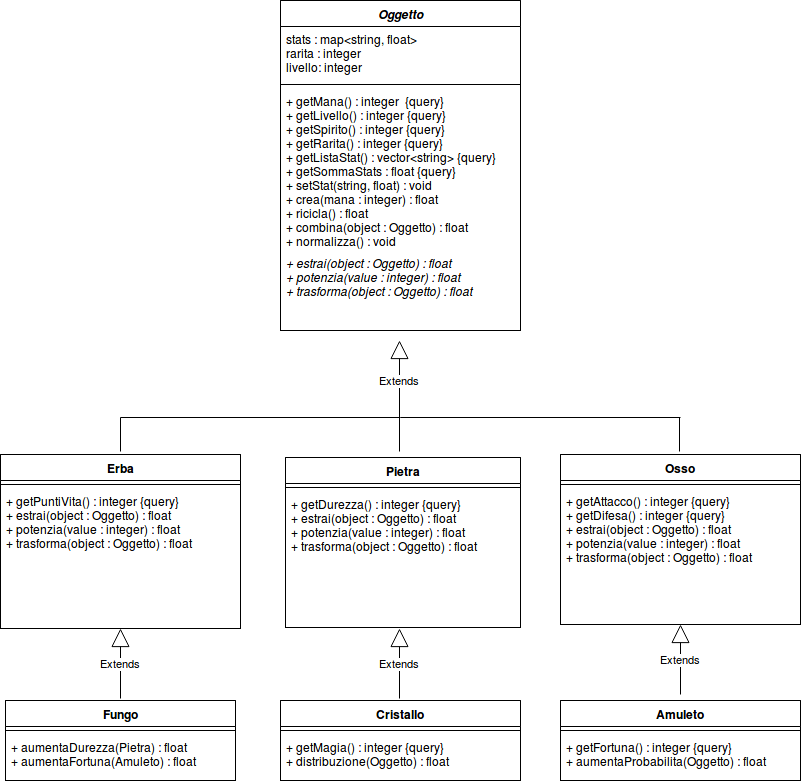
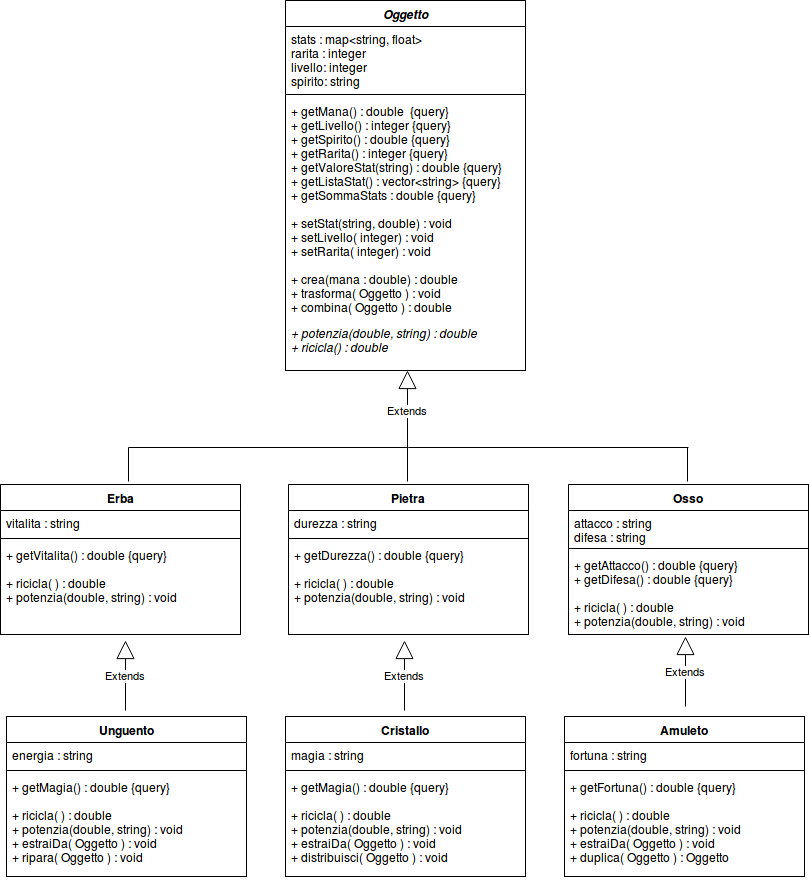
rimossi virtual da estrai, sistemato ordine metodi, sistemata immagine gerarchia

diff --git a/tempIdeas/untitled/oggetto.h b/tempIdeas/untitled/oggetto.h
@@ -41,7 +41,7 @@ public:
     //distruttore virtuale
     virtual ~Oggetto() {}
 
-    virtual Oggetto* clone() const =0;
+
 
 //---------METODI DI SET
     void setLivello(int livello) {
@@ -58,7 +58,7 @@ public:
         stats[stat] += value;
     }
 
-    bool modifyStat(string str, double db) { //GESTIONE DEGLI ERRORI
+    bool modifyStat(string str, double db) {
         bool trovata=false;
         if(stats.count(str)) {
             stats[str] = db;
@@ -100,22 +100,17 @@ public:
     int getLivello() const {
        return livello_;
     }
+
     int getRarita() const {
         return rarita_;
     }
+
     double getValoreStat(string str) const {
         return stats.at(str);
     }
 
     double getSpirito() const {
         return getValoreStat(spirito_);
-    }
-
-    list<string> getListaStats()  const {
-        list<string> keyList;
-        for(map<string, double>::const_iterator it= stats.begin(); it!=stats.end(); ++it)
-            keyList.push_back(it->first);
-        return keyList;
     }
 
     double getSommaStats() const {
@@ -125,13 +120,20 @@ public:
         return sum;
     }
 
+    list<string> getListaStats()  const {
+        list<string> keyList;
+        for(map<string, double>::const_iterator it= stats.begin(); it!=stats.end(); ++it)
+            keyList.push_back(it->first);
+        return keyList;
+    }
+
     double calcolaMana() const {
         return getSommaStats()*getLivello();
     }
 
 
 
-//------------OPERAZIONI
+//------------OPERAZIONI DI CONTROLLO INPUT
     void normalizza() {
         int maxStat = 150;
         if(getLivello()*maxStat*stats.size() <= calcolaMana()) {
@@ -175,6 +177,8 @@ public:
         return l;
     }
 
+    //OPERAZIONI CALCOLATRICE
+
     void combina(Oggetto* object) {
         map<string, double> invMap = stats; //copiata la mappa dell'oggetto di invocazione
         map<string, double> parMap = object->stats; //copiata la mappa dell'oggetto di invocazione
@@ -210,14 +214,6 @@ public:
         //ora bisogna normalizzare stats a seconda del livello.
         normalizza();
     }
-
-
-
-    //operazioni
-
-    virtual double ricicla() const = 0;
-
-    virtual void potenzia(double mana, string parametro ="") = 0;
 
     void trasformaDa(const Oggetto *obj) {
 
@@ -283,6 +279,10 @@ public:
         normalizza();
     }
 
+    //OPERAZIONI VIRTUALI PURE
+    virtual Oggetto* clone() const =0;
+    virtual double ricicla() const = 0;
+    virtual void potenzia(double mana, string parametro ="") = 0;
 };
 
 #endif // OGGETTO_H

diff --git a/tempIdeas/untitled/unguento.h b/tempIdeas/untitled/unguento.h
@@ -18,10 +18,17 @@ public:
              double energia =1) : Erba(livello, rarita, spirito, vitalita), energia_("Energia") {
         insertStat(energia_, energia);
     }
+    //METODI DI GET
+    double getEnergia() const {
+        return getValoreStat(energia_);
+    }
+
+    //METODI DI SUPPORTO
     Unguento*clone() const {
         return new Unguento(*this);
     }
 
+    //OPERAZIONI CALCOLATRICE
     void potenzia(double mana, string parametro ="") {
 
         mana = sanitizeMana(mana);
@@ -36,8 +43,11 @@ public:
         Erba::potenzia(mana, parametro);
     }
 
-    //estraiDa permette di creare un Unguento da una sua superclasse.
-    virtual void estraiDa(Oggetto* oggetto) {
+    double ricicla() const {
+        return Erba::ricicla() + getValoreStat(energia_) * getRarita();
+    }
+
+    void estraiDa(Oggetto* oggetto) {
         if(typeid(Erba) == typeid(*oggetto)) {
             setLivello(oggetto->getLivello());
             setRarita(oggetto->getRarita());
@@ -62,10 +72,6 @@ public:
         else {
             throw OperationException(OperationException::estrazione);
         }
-    }
-
-    double ricicla() const {
-        return Erba::ricicla() + getValoreStat(energia_) * getRarita();
     }
 
     void ripara(Oggetto* obj) {

diff --git a/tempIdeas/untitled/cristallo.h b/tempIdeas/untitled/cristallo.h
@@ -29,16 +29,19 @@ public:
         Oggetto::insertStat(magia_, magia);
     }
 
-    //methods
+    //METODI DI GET
     virtual double getMagia() const {
         return getValoreStat(magia_);
     }
 
+    //METODI DI SUPPORTO
     Cristallo* clone() const {
         return new Cristallo(*this);
     }
 
-    virtual void potenzia(double mana, string parametro ="") {
+    //OPERAZIONI CALCOLATRICE
+
+    void potenzia(double mana, string parametro ="") {
 
         mana = sanitizeMana(mana);
 
@@ -58,7 +61,11 @@ public:
         normalizza();
     }
 
-    virtual void estraiDa(Oggetto* oggetto) {
+    double ricicla() const {
+        return Pietra::ricicla() + getMagia() * getRarita();
+    }
+
+    void estraiDa(Oggetto* oggetto) {
         if(typeid(Pietra) == typeid(*oggetto)) {
 
             list<string> s = getListaStats();
@@ -81,10 +88,6 @@ public:
         else {
             throw OperationException(OperationException::estrazione);
         }
-    }
-
-    double ricicla() const {
-        return Pietra::ricicla() + getMagia() * getRarita();
     }
 
     void distribuisci(Oggetto* obj) {

diff --git a/tempIdeas/untitled/amuleto.h b/tempIdeas/untitled/amuleto.h
@@ -28,13 +28,17 @@ public:
        insertStat(fortuna_, fortuna);
     }
 
+    //METODI DI GET
     double getFortuna() const {
         return getValoreStat(fortuna_);
     }
 
+    //METODI DI SUPPORTO
     Amuleto* clone() const {
         return new Amuleto(*this);
     }
+
+    //OPERAZIONI CALCOLATRICE
 
     double ricicla() const {
         return Osso::ricicla() + getValoreStat(fortuna_) * getRarita();
@@ -57,7 +61,7 @@ public:
 
     }
 
-    virtual void estraiDa(Oggetto* oggetto) {
+    void estraiDa(Oggetto* oggetto) {
         if(typeid(Osso) == typeid(*oggetto)) {
             setLivello(oggetto->getLivello());
             setRarita(oggetto->getRarita());

diff --git a/tempIdeas/untitled/pietra.h b/tempIdeas/untitled/pietra.h
@@ -26,19 +26,22 @@ public:
         insertStat(durezza_, durezza);
     }
 
+    //METODI DI GET
+
+    double getDurezza() const {
+       return getValoreStat(durezza_);
+   }
+
+    //METODI DI SUPPORTO
     Pietra* clone() const {
         return new Pietra(*this);
-    }
-
-     double getDurezza() const {
-        return getValoreStat(durezza_);
     }
 
      void editDurezza(double val) {
          incrementStat(durezza_, val);
      }
 
-// ritorna il livello*rarita*(somma delle statistiche, senza lo spirito, durezza*2
+    //OPERAZIONI CALCOLATRICE
 
     double ricicla() const {
         return calcolaMana() / 2 + getValoreStat(durezza_) * getRarita();

diff --git a/tempIdeas/untitled/erba.h b/tempIdeas/untitled/erba.h
@@ -18,20 +18,26 @@ public:
             insertStat(vitalita_, vitalita);
     }
 
+    //METODI DI GET
+
     double getVitalita() const {
         return getValoreStat(vitalita_);
     }
+
+    //METODI DI SUPPORTO
 
     Erba* clone() const {
         return new Erba(*this);
     }
 
-     double ricicla() const {
+    //OPERAZIONI CALCOLATRICE
+
+    double ricicla() const {
         return calcolaMana() / 2 + getValoreStat(vitalita_) * getRarita();
 
     }
 
-     void potenzia(double mana, string parametro ="") {
+    void potenzia(double mana, string parametro ="") {
 
          mana = sanitizeMana(mana);
 

diff --git a/tempIdeas/untitled/osso.h b/tempIdeas/untitled/osso.h
@@ -75,10 +75,6 @@ public:
 
         normalizza();
     }
-
-
-
-
 };
 
 #endif // OSSO_H
